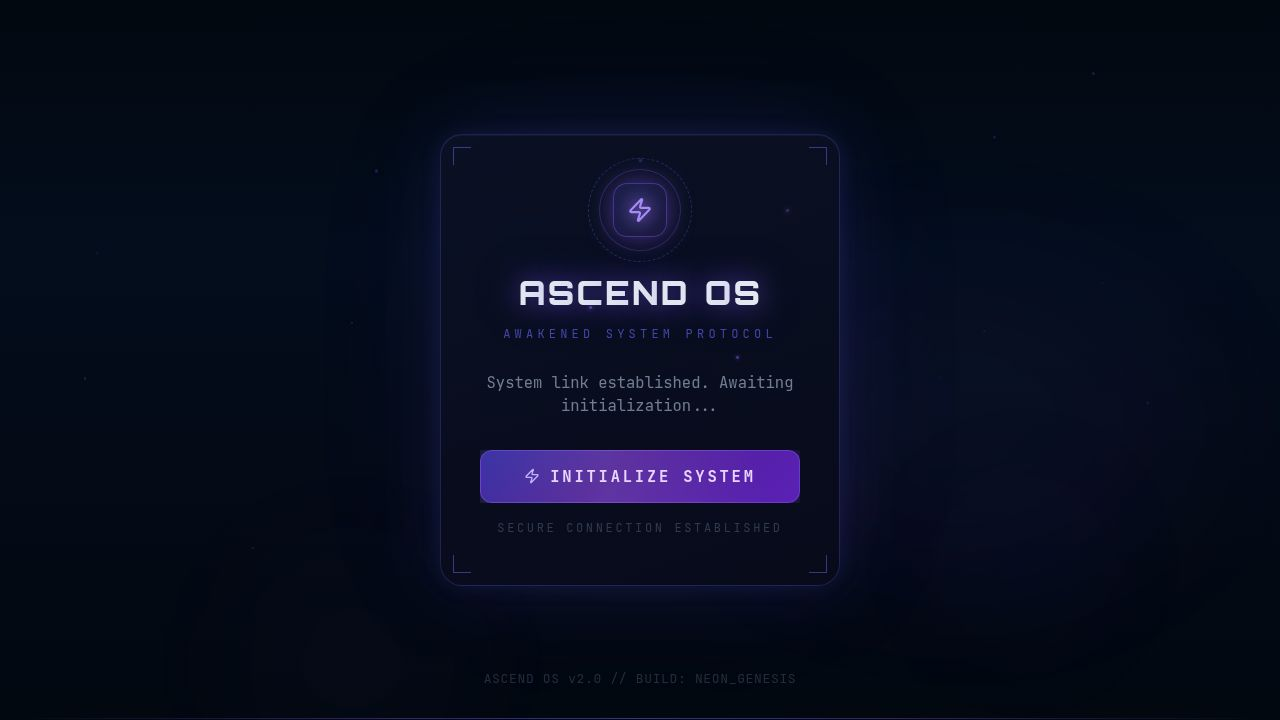
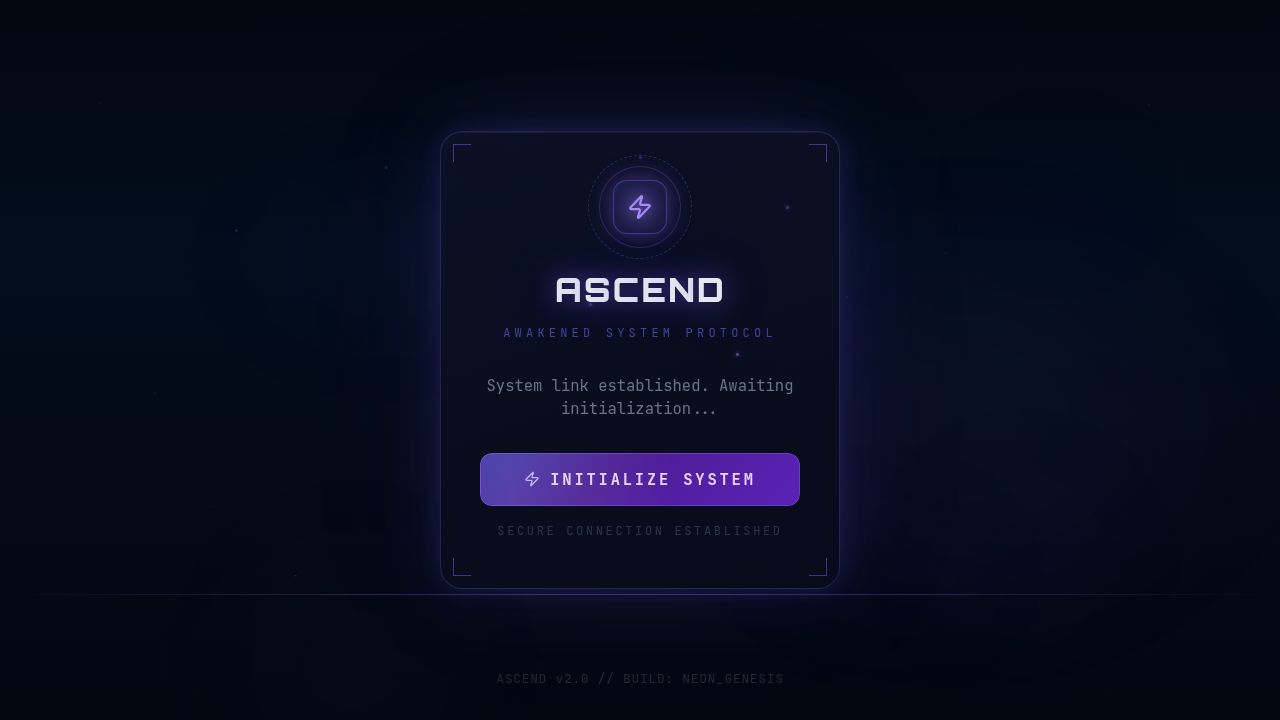
Refine onboarding animations, particles, and text timing for a premium feel
Adjust particle counts, densities, and durations; soften glow effects; smooth animation easing curves; and increase text reveal delays across onboarding screens.

Replit-Commit-Author: Agent
Replit-Commit-Session-Id: 7be3e899-613b-4820-969a-d15ced50fe52
Replit-Commit-Checkpoint-Type: full_checkpoint
Replit-Commit-Event-Id: 31b25fe9-8c20-4fcc-822e-80268f46a61c
Replit-Commit-Screenshot-Url: https://storage.googleapis.com/screenshot-production-us-central1/6c6f1273-4ee4-4109-9ba3-f37179500999/7be3e899-613b-4820-969a-d15ced50fe52/SsN6TU0
Replit-Helium-Checkpoint-Created: true

diff --git a/client/src/components/game/IntroScreen.tsx b/client/src/components/game/IntroScreen.tsx
@@ -29,19 +29,19 @@ interface IntroScreenProps {
 export function IntroScreen({ onBeginAscension }: IntroScreenProps) {
   const [isActivating, setIsActivating] = useState(false);
   const [isTransitioning, setIsTransitioning] = useState(false);
-  const tagline = useTypewriter(TAGLINE, 42, 1900);
+  const tagline = useTypewriter(TAGLINE, 46, 2400);
 
   const particles = useRef(
-    Array.from({ length: 28 }, (_, i) => ({
+    Array.from({ length: 18 }, (_, i) => ({
       id: i,
       x: 4 + Math.random() * 92,
       y: 15 + Math.random() * 75,
-      size: 0.8 + Math.random() * 2.2,
-      duration: 7 + Math.random() * 9,
-      delay: Math.random() * 6,
-      driftX: (Math.random() - 0.5) * 60,
-      driftY: -(20 + Math.random() * 65),
-      opacity: 0.2 + Math.random() * 0.5,
+      size: 0.6 + Math.random() * 1.6,
+      duration: 11 + Math.random() * 12,
+      delay: Math.random() * 8,
+      driftX: (Math.random() - 0.5) * 48,
+      driftY: -(14 + Math.random() * 52),
+      opacity: 0.1 + Math.random() * 0.28,
       colorIndex: i % 4,
     }))
   ).current;
@@ -166,7 +166,7 @@ export function IntroScreen({ onBeginAscension }: IntroScreenProps) {
                 : p.colorIndex === 2
                 ? "rgba(167,139,250,0.55)"
                 : "rgba(196,181,253,0.45)",
-              boxShadow: `0 0 ${p.size * 2.5}px rgba(139,92,246,0.35)`,
+              boxShadow: `0 0 ${p.size * 2}px rgba(139,92,246,0.18)`,
             }}
             animate={{
               y: [0, p.driftY, 0],
@@ -241,7 +241,7 @@ export function IntroScreen({ onBeginAscension }: IntroScreenProps) {
                   ]
                 : [
                     "0 0 0px rgba(99,102,241,0)",
-                    "0 0 30px rgba(99,102,241,0.18)",
+                    "0 0 20px rgba(99,102,241,0.11)",
                     "0 0 0px rgba(99,102,241,0)",
                   ],
             }}
@@ -321,8 +321,8 @@ export function IntroScreen({ onBeginAscension }: IntroScreenProps) {
                 background: "radial-gradient(circle, rgba(139,92,246,0.28) 0%, transparent 70%)",
                 filter: "blur(8px)",
               }}
-              animate={{ scale: [1, 1.25, 1], opacity: [0.6, 1, 0.6] }}
-              transition={{ duration: 3, repeat: Infinity, ease: "easeInOut" }}
+              animate={{ scale: [1, 1.18, 1], opacity: [0.5, 0.85, 0.5] }}
+              transition={{ duration: 4.5, repeat: Infinity, ease: "easeInOut" }}
             />
             <motion.div
               style={{
@@ -335,9 +335,9 @@ export function IntroScreen({ onBeginAscension }: IntroScreenProps) {
               }}
               animate={{
                 boxShadow: [
-                  "0 0 15px rgba(139,92,246,0.3)",
-                  "0 0 32px rgba(139,92,246,0.55)",
-                  "0 0 15px rgba(139,92,246,0.3)",
+                  "0 0 12px rgba(139,92,246,0.22)",
+                  "0 0 26px rgba(139,92,246,0.42)",
+                  "0 0 12px rgba(139,92,246,0.22)",
                 ],
               }}
               transition={{ duration: 2.5, repeat: Infinity, ease: "easeInOut" }}
@@ -361,7 +361,7 @@ export function IntroScreen({ onBeginAscension }: IntroScreenProps) {
                 }}
                 initial={{ opacity: 0, y: -14, filter: "blur(4px)" }}
                 animate={{ opacity: 1, y: 0, filter: "blur(0px)" }}
-                transition={{ delay: 0.5 + i * 0.065, duration: 0.5, ease: "easeOut" }}
+                transition={{ delay: 0.75 + i * 0.09, duration: 0.6, ease: [0.25, 0.46, 0.45, 0.94] }}
               >
                 {char}
               </motion.span>
@@ -374,7 +374,7 @@ export function IntroScreen({ onBeginAscension }: IntroScreenProps) {
             style={{ color: "rgba(99,102,241,0.6)" }}
             initial={{ opacity: 0 }}
             animate={{ opacity: 1 }}
-            transition={{ delay: 1.3, duration: 0.7 }}
+            transition={{ delay: 1.9, duration: 0.9 }}
           >
             AWAKENED SYSTEM PROTOCOL
           </motion.p>
@@ -384,7 +384,7 @@ export function IntroScreen({ onBeginAscension }: IntroScreenProps) {
             className="mb-8 min-h-[44px] text-center px-2"
             initial={{ opacity: 0 }}
             animate={{ opacity: 1 }}
-            transition={{ delay: 1.7, duration: 0.5 }}
+            transition={{ delay: 2.4, duration: 0.7 }}
           >
             <p className="text-sm font-mono leading-relaxed" style={{ color: "rgba(148,163,184,0.68)" }}>
               {tagline}
@@ -406,7 +406,7 @@ export function IntroScreen({ onBeginAscension }: IntroScreenProps) {
             className="w-full max-w-xs relative overflow-hidden"
             initial={{ opacity: 0, y: 12 }}
             animate={{ opacity: 1, y: 0 }}
-            transition={{ delay: 2.4, duration: 0.7 }}
+            transition={{ delay: 3.1, duration: 0.8, ease: [0.25, 0.46, 0.45, 0.94] }}
             whileHover={{ scale: 1.025 }}
             whileTap={{ scale: 0.96 }}
             data-testid="button-begin-ascension"

diff --git a/client/src/components/game/PlayerInfoScreen.tsx b/client/src/components/game/PlayerInfoScreen.tsx
@@ -20,16 +20,16 @@ export function PlayerInfoScreen({ onComplete }: PlayerInfoScreenProps) {
   const accentMid = `${accent}55`;
 
   const particles = useRef(
-    Array.from({ length: 22 }, (_, i) => ({
+    Array.from({ length: 14 }, (_, i) => ({
       id: i,
       x: 5 + Math.random() * 90,
       y: 10 + Math.random() * 85,
-      size: 0.8 + Math.random() * 2.2,
-      duration: 7 + Math.random() * 8,
-      delay: Math.random() * 6,
-      driftX: (Math.random() - 0.5) * 50,
-      driftY: -(18 + Math.random() * 60),
-      opacity: 0.2 + Math.random() * 0.5,
+      size: 0.6 + Math.random() * 1.6,
+      duration: 11 + Math.random() * 11,
+      delay: Math.random() * 8,
+      driftX: (Math.random() - 0.5) * 40,
+      driftY: -(12 + Math.random() * 50),
+      opacity: 0.1 + Math.random() * 0.28,
     }))
   ).current;
 
@@ -118,7 +118,7 @@ export function PlayerInfoScreen({ onComplete }: PlayerInfoScreenProps) {
             width: p.size, height: p.size,
             left: `${p.x}%`, top: `${p.y}%`,
             background: accent,
-            boxShadow: `0 0 ${p.size * 2.5}px ${accentMid}`,
+            boxShadow: `0 0 ${p.size * 2}px ${accentGlow}`,
           }}
           animate={{ y: [0, p.driftY, 0], x: [0, p.driftX, 0], opacity: [0, p.opacity, 0] }}
           transition={{ duration: p.duration, repeat: Infinity, delay: p.delay, ease: "easeInOut" }}
@@ -141,7 +141,7 @@ export function PlayerInfoScreen({ onComplete }: PlayerInfoScreenProps) {
         className="relative z-10 w-full max-w-sm px-6"
         initial={{ opacity: 0, y: 24 }}
         animate={{ opacity: 1, y: 0 }}
-        transition={{ duration: 0.8, delay: 0.2, ease: "easeOut" }}
+        transition={{ duration: 0.9, delay: 0.22, ease: [0.25, 0.46, 0.45, 0.94] }}
       >
         {/* Header */}
         <div className="text-center mb-10">
@@ -152,7 +152,7 @@ export function PlayerInfoScreen({ onComplete }: PlayerInfoScreenProps) {
             animate={{ opacity: 1 }}
             transition={{ delay: 0.4, duration: 0.6 }}
           >
-            ASCEND OS · OPERATOR SETUP
+            ASCEND · OPERATOR SETUP
           </motion.p>
 
           {/* Terminal icon */}
@@ -160,7 +160,7 @@ export function PlayerInfoScreen({ onComplete }: PlayerInfoScreenProps) {
             className="mx-auto mb-6"
             initial={{ scale: 0, opacity: 0 }}
             animate={{ scale: 1, opacity: 1 }}
-            transition={{ delay: 0.5, duration: 0.6, type: "spring", stiffness: 130 }}
+            transition={{ delay: 0.65, duration: 0.72, type: "spring", stiffness: 110, damping: 14 }}
             style={{ width: 60, height: 60 }}
           >
             <motion.div
@@ -172,9 +172,9 @@ export function PlayerInfoScreen({ onComplete }: PlayerInfoScreenProps) {
               }}
               animate={{
                 boxShadow: [
-                  `0 0 14px ${accentGlow}`,
-                  `0 0 32px ${accentMid}`,
-                  `0 0 14px ${accentGlow}`,
+                  `0 0 10px ${accentGlow}`,
+                  `0 0 22px ${accentGlow}`,
+                  `0 0 10px ${accentGlow}`,
                 ],
               }}
               transition={{ duration: 2.5, repeat: Infinity, ease: "easeInOut" }}
@@ -199,7 +199,7 @@ export function PlayerInfoScreen({ onComplete }: PlayerInfoScreenProps) {
             }}
             initial={{ opacity: 0, y: 8 }}
             animate={{ opacity: 1, y: 0 }}
-            transition={{ delay: 0.65, duration: 0.55 }}
+            transition={{ delay: 0.9, duration: 0.65, ease: [0.25, 0.46, 0.45, 0.94] }}
           >
             What shall the system call you?
           </motion.h2>
@@ -209,7 +209,7 @@ export function PlayerInfoScreen({ onComplete }: PlayerInfoScreenProps) {
             style={{ color: "rgba(148,163,184,0.38)" }}
             initial={{ opacity: 0 }}
             animate={{ opacity: 1 }}
-            transition={{ delay: 0.9, duration: 0.5 }}
+            transition={{ delay: 1.18, duration: 0.6 }}
           >
             Your designation will be encoded into the system.
           </motion.p>
@@ -220,7 +220,7 @@ export function PlayerInfoScreen({ onComplete }: PlayerInfoScreenProps) {
           className="relative mb-7"
           initial={{ opacity: 0, y: 10 }}
           animate={{ opacity: 1, y: 0 }}
-          transition={{ delay: 1.05, duration: 0.55 }}
+          transition={{ delay: 1.35, duration: 0.65, ease: [0.25, 0.46, 0.45, 0.94] }}
         >
           {/* Holographic outer pulse ring when focused */}
           <AnimatePresence>
@@ -330,7 +330,7 @@ export function PlayerInfoScreen({ onComplete }: PlayerInfoScreenProps) {
         <motion.div
           initial={{ opacity: 0, y: 10 }}
           animate={{ opacity: 1, y: 0 }}
-          transition={{ delay: 1.2, duration: 0.55 }}
+          transition={{ delay: 1.55, duration: 0.65 }}
         >
           <motion.button
             onClick={handleSubmit}

diff --git a/client/src/components/game/GenderSelectScreen.tsx b/client/src/components/game/GenderSelectScreen.tsx
@@ -93,10 +93,10 @@ function GenderCard({
 
   return (
     <motion.div
-      animate={{ y: selected ? [0, -6, 0, -4, 0] : 0 }}
+      animate={{ y: selected ? [0, -7, 0, -4, 0] : 0 }}
       transition={selected
-        ? { duration: 3.8, repeat: Infinity, ease: "easeInOut" }
-        : { duration: 0.3 }
+        ? { duration: 5.5, repeat: Infinity, ease: [0.45, 0, 0.55, 1] }
+        : { duration: 0.4, ease: [0.25, 0.46, 0.45, 0.94] }
       }
       style={{ flex: 1, minWidth: 0 }}
     >
@@ -262,16 +262,16 @@ export function GenderSelectScreen({ onSelect }: GenderSelectScreenProps) {
   const [exiting, setExiting] = useState(false);
 
   const particles = useRef(
-    Array.from({ length: 18 }, (_, i) => ({
+    Array.from({ length: 12 }, (_, i) => ({
       id: i,
       x: 3 + Math.random() * 94,
       y: 10 + Math.random() * 80,
-      size: 0.8 + Math.random() * 2.2,
-      duration: 7 + Math.random() * 8,
-      delay: Math.random() * 6,
-      driftY: -(18 + Math.random() * 55),
-      driftX: (Math.random() - 0.5) * 38,
-      color: i % 2 === 0 ? "rgba(63,182,255,0.5)" : "rgba(217,70,239,0.5)",
+      size: 0.6 + Math.random() * 1.5,
+      duration: 10 + Math.random() * 11,
+      delay: Math.random() * 8,
+      driftY: -(12 + Math.random() * 44),
+      driftX: (Math.random() - 0.5) * 28,
+      color: i % 2 === 0 ? "rgba(63,182,255,0.32)" : "rgba(217,70,239,0.32)",
     }))
   ).current;
 
@@ -395,7 +395,7 @@ export function GenderSelectScreen({ onSelect }: GenderSelectScreenProps) {
             }}
             initial={{ opacity: 0, y: -8 }}
             animate={{ opacity: 1, y: 0 }}
-            transition={{ delay: 0.2, duration: 0.6 }}
+            transition={{ delay: 0.3, duration: 0.7 }}
           >
             ASCEND OS · INITIALIZATION
           </motion.p>
@@ -414,7 +414,7 @@ export function GenderSelectScreen({ onSelect }: GenderSelectScreenProps) {
             }}
             initial={{ opacity: 0, y: -12, filter: "blur(6px)" }}
             animate={{ opacity: 1, y: 0, filter: "blur(0px)" }}
-            transition={{ delay: 0.35, duration: 0.7 }}
+            transition={{ delay: 0.52, duration: 0.78, ease: [0.25, 0.46, 0.45, 0.94] }}
           >
             CHOOSE YOUR PATH
           </motion.h1>
@@ -426,7 +426,7 @@ export function GenderSelectScreen({ onSelect }: GenderSelectScreenProps) {
             }}
             initial={{ opacity: 0 }}
             animate={{ opacity: 1 }}
-            transition={{ delay: 0.6, duration: 0.6 }}
+            transition={{ delay: 0.78, duration: 0.65 }}
           >
             Your system theme adapts to you
           </motion.p>
@@ -442,7 +442,7 @@ export function GenderSelectScreen({ onSelect }: GenderSelectScreenProps) {
           }}
           initial={{ opacity: 0, y: 24 }}
           animate={{ opacity: 1, y: 0 }}
-          transition={{ delay: 0.5, duration: 0.75, ease: "easeOut" }}
+          transition={{ delay: 0.68, duration: 0.85, ease: [0.25, 0.46, 0.45, 0.94] }}
         >
           <GenderCard gender="male" selected={selected === "male"} onClick={() => setSelected("male")} />
           <GenderCard gender="female" selected={selected === "female"} onClick={() => setSelected("female")} />
